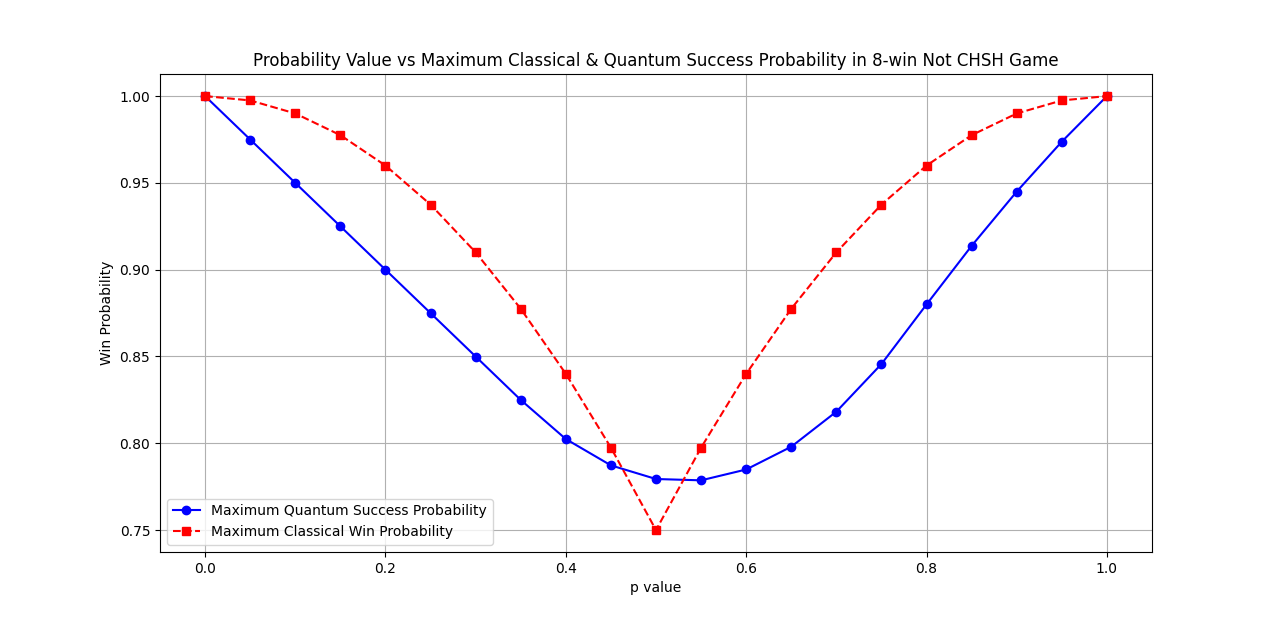
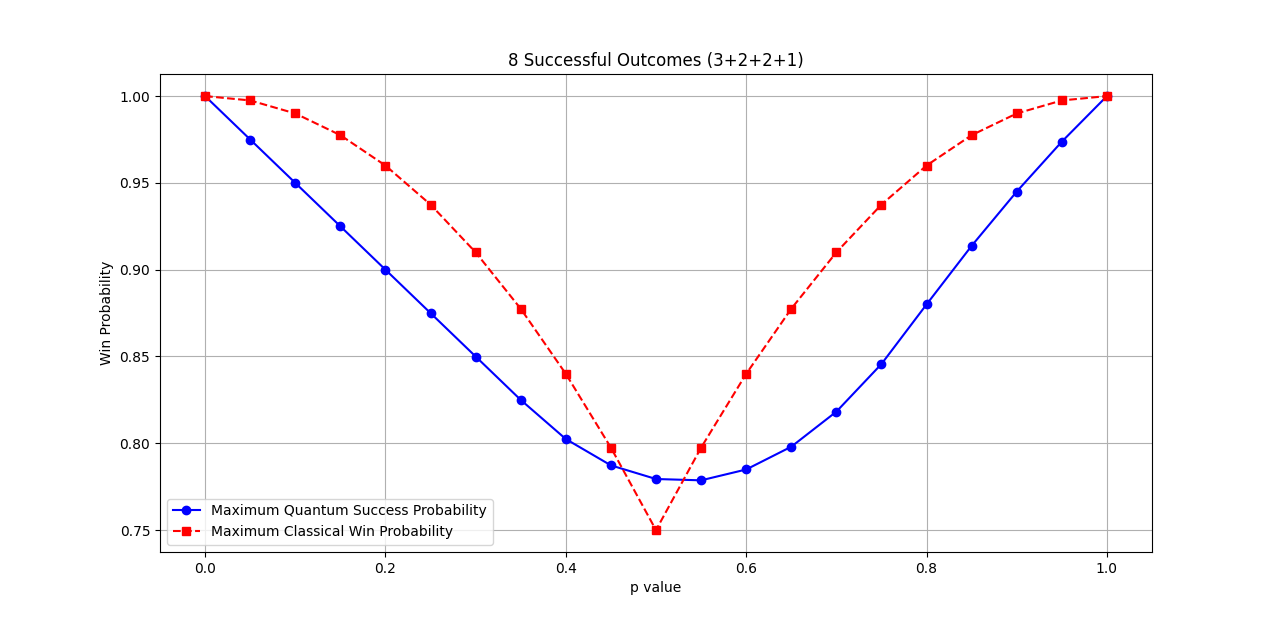
All diagrams have been given headings uniformly .

Changed region(s): [[0.1875, 0.0613, 0.8438, 0.1226]]

diff --git a/8win_chsh_finalplot.py b/8win_chsh_finalplot.py
@@ -20,7 +20,7 @@ plt.plot(probability_values, classical_success, marker='s', linestyle='--', labe
 # Labels and title
 plt.xlabel("Probability Value")
 plt.ylabel("Success Probability")
-plt.title("Probability Value vs Maximum Classical & Quantum Success Probability")
+plt.title("8 Successful Outcomes (2+2+2+2)")
 plt.legend()
 plt.grid(True)
 plt.show()

diff --git a/8win_notchsh_finalplot.py b/8win_notchsh_finalplot.py
@@ -14,7 +14,7 @@ plt.plot(p_values, classical_win_prob, marker='s', linestyle='--', color='r', la
 # Labels and title
 plt.xlabel("p value")
 plt.ylabel("Win Probability")
-plt.title("Probability Value vs Maximum Classical & Quantum Success Probability in 8-win Not CHSH Game")
+plt.title("8 Successful Outcomes (3+2+2+1)")
 plt.legend()
 plt.grid(True)
 

diff --git a/9win_finalplot.py b/9win_finalplot.py
@@ -19,7 +19,7 @@ plt.plot(probability_values, classical_success, marker='s', linestyle='--', colo
 # Labels and Title
 plt.xlabel('Probability Value')
 plt.ylabel('Success Probability')
-plt.title('Quantum vs Classical Success Probability in 9 successful outcomes')
+plt.title('9 Successful Outcomes (3+3+2+1)')
 plt.legend()
 plt.grid(True)
 

diff --git a/10win_finalplot.py b/10win_finalplot.py
@@ -19,7 +19,7 @@ plt.plot(probability_values, classical_success, marker='s', linestyle='--', colo
 # Labels and Title
 plt.xlabel('Probability Value')
 plt.ylabel('Success Probability')
-plt.title('Quantum vs Classical Success Probability')
+plt.title('10 Successful Outcomes (3+3+3+1)')
 plt.legend()
 plt.grid(True)
 
